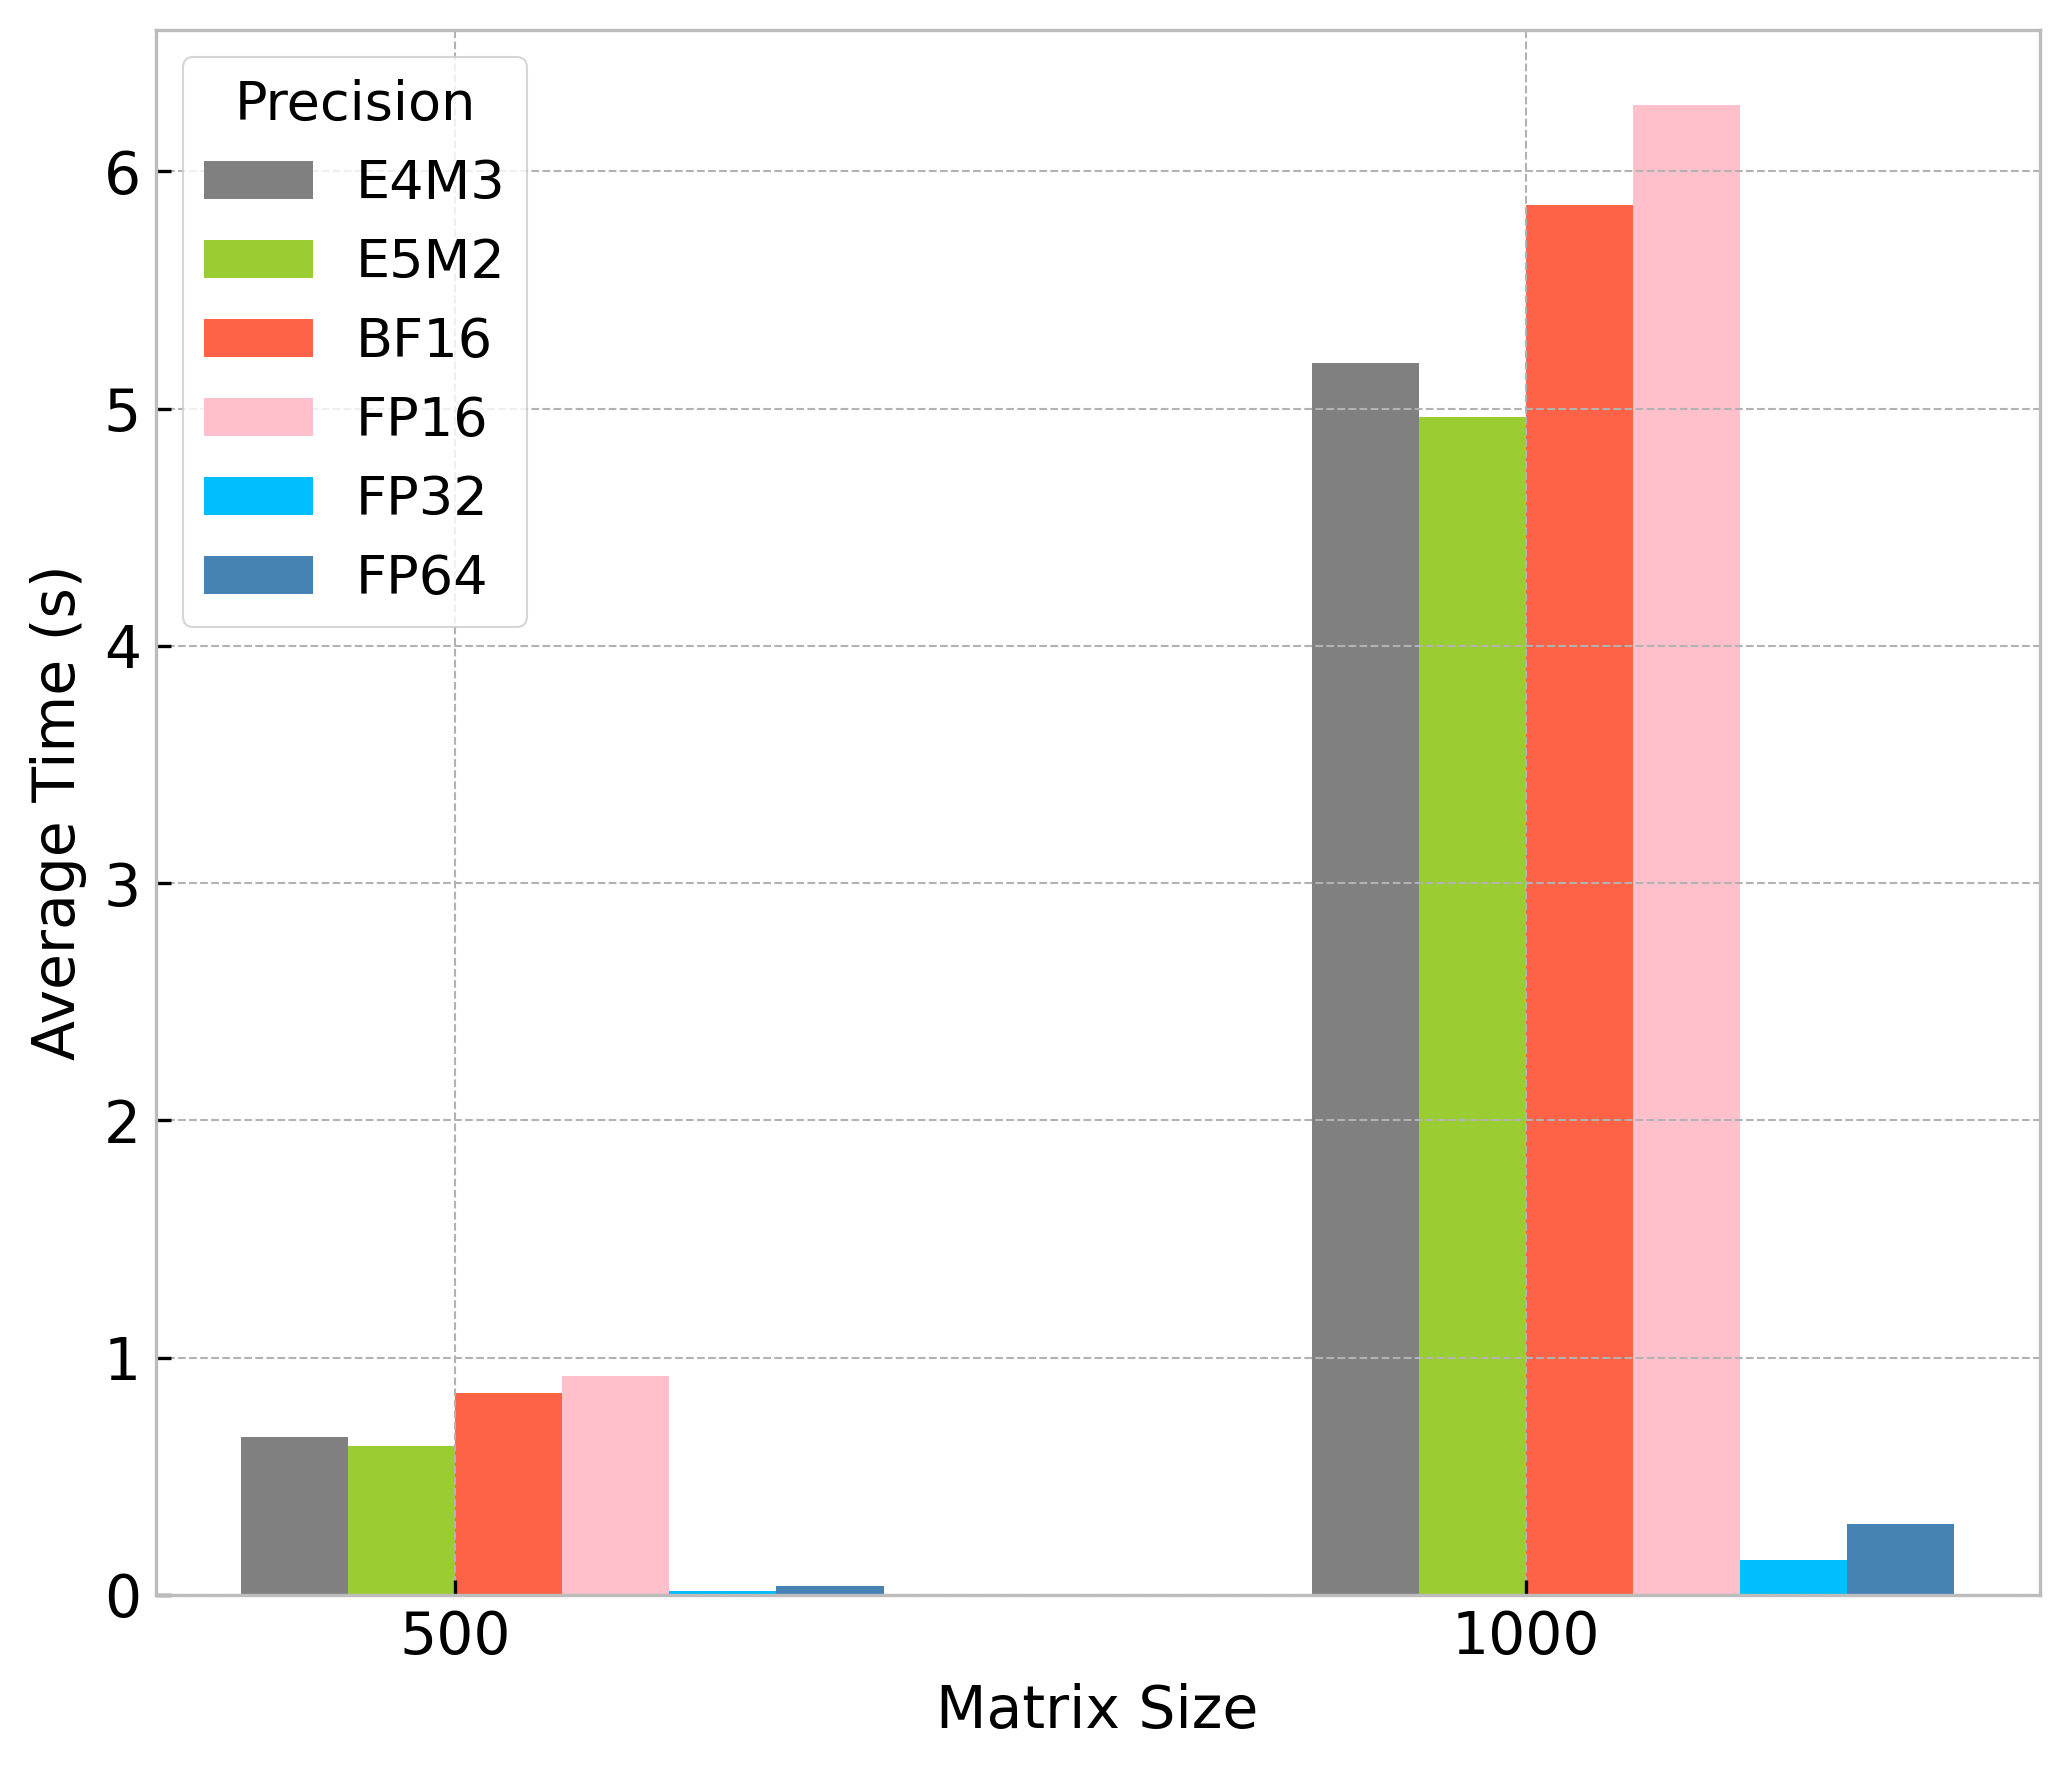
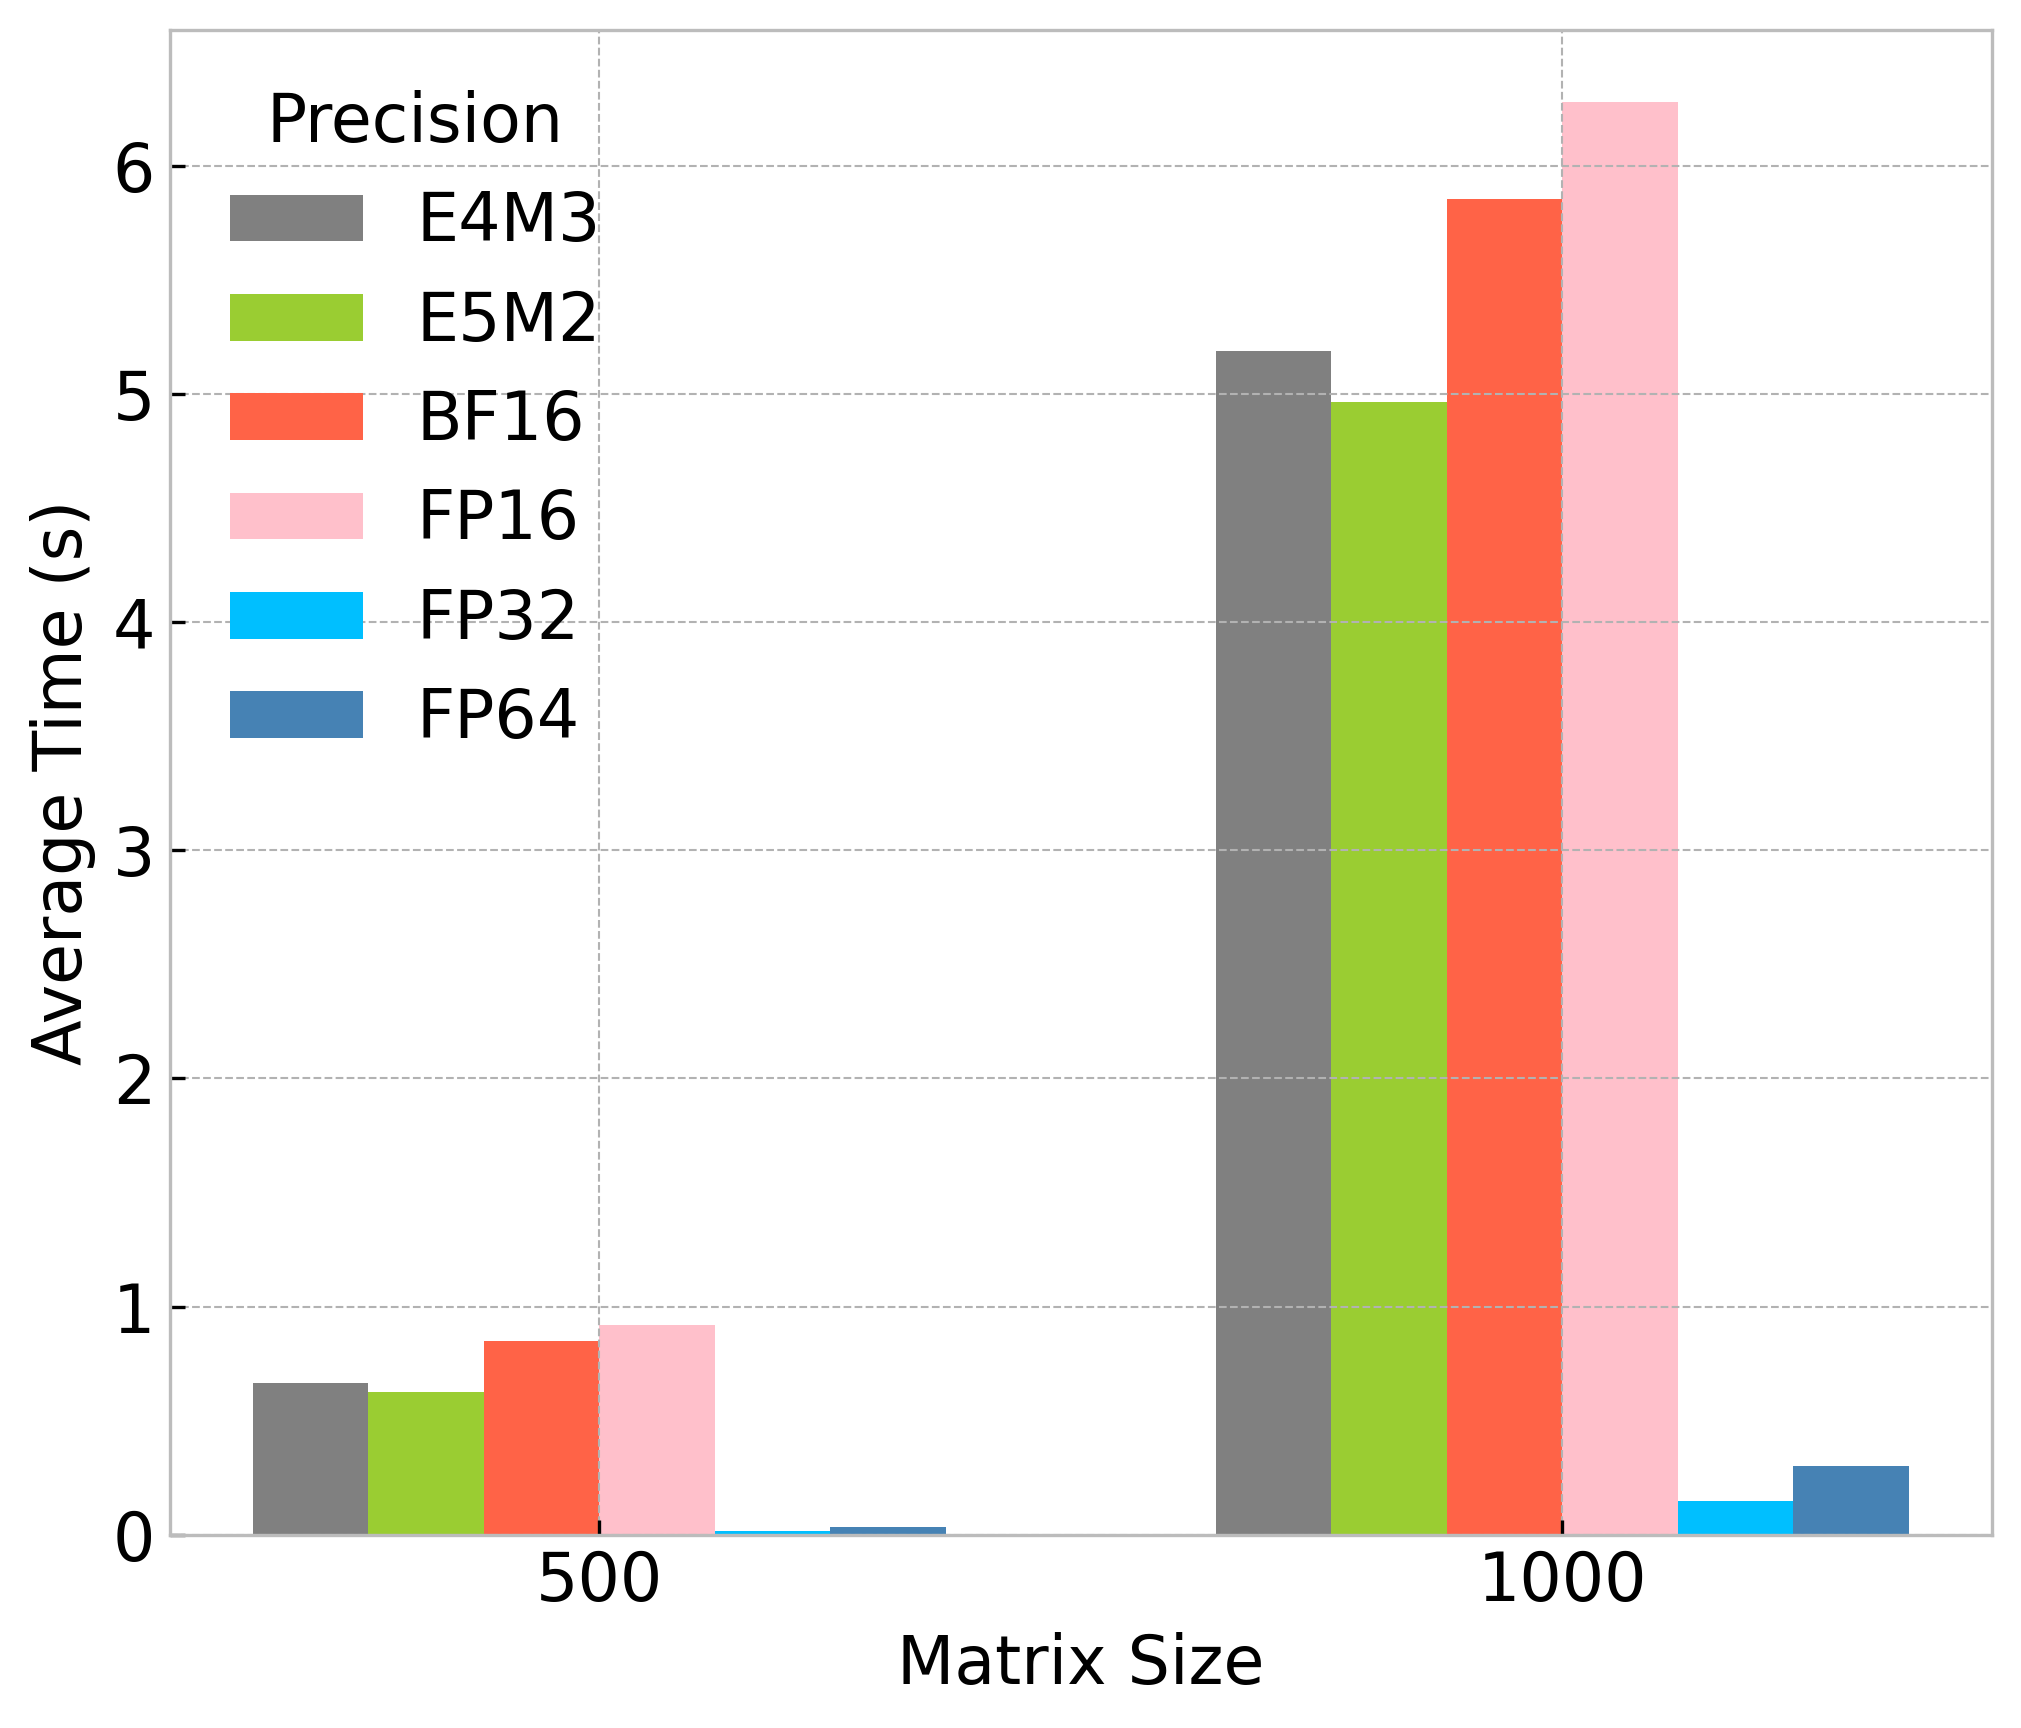
update code

Changed region(s): [[0.0, 0.0312, 0.9975, 0.9375], [0.4364, 0.9375, 0.6235, 1.0]]

diff --git a/cadnaPromise/examples/test_floatx/plot.py b/cadnaPromise/examples/test_floatx/plot.py
@@ -2,50 +2,67 @@ import pandas as pd
 import matplotlib.pyplot as plt
 import numpy as np
 
+# ============================
+# Load data
+# ============================
 df = pd.read_csv("results.csv")
 
-# Font sizes
-label_size = 14
-tick_size = 14
+# ============================
+# Global plotting style（论文风格）
+# ============================
+font_size = 16
 
-# Plot style
 plt.style.use('bmh')
-plt.rcParams['lines.linewidth'] = 2
-plt.rcParams['axes.facecolor'] = 'white'
-plt.rcParams['figure.facecolor'] = 'white'
+
+plt.rcParams.update({
+    'font.size': font_size,
+    'axes.titlesize': font_size,
+    'axes.labelsize': font_size,
+    'xtick.labelsize': font_size,
+    'ytick.labelsize': font_size,
+    'legend.fontsize': font_size,
+
+    'lines.linewidth': 2,
+    'lines.markersize': 6,
+
+    'axes.facecolor': 'white',
+    'figure.facecolor': 'white',
+
+    'legend.frameon': False,
+    'axes.grid': True
+})
 
 # ============================
 # Plot 1: Varying exponent bits
 # ============================
-plt.figure(figsize=(8, 6))
+fig, ax = plt.subplots(figsize=(8, 6))
 
 exp_df = df[(df['Type'] == 'exp') & (df['MatrixSize'] == 500)]
 
 fixed_sig_bits = sorted(exp_df['SigBits'].unique())
-markers = ['o', 's']
-colors = ['black', 'purple']
+markers = ['o', 's', '^', 'D']
+colors = ['black', 'purple', 'teal', 'darkorange']
 
 for i, sig in enumerate(fixed_sig_bits):
     subset = exp_df[exp_df['SigBits'] == sig].sort_values('ExpBits')
 
-    plt.plot(
+    ax.plot(
         subset['ExpBits'],
         subset['AvgTime'],
-        marker=markers[i],
-        color=colors[i],
-        markersize=8,
-        label=f'Fixed Significand = {sig}'
+        marker=markers[i % len(markers)],
+        color=colors[i % len(colors)],
+        label=f'Significand = {sig}'
     )
 
-plt.xlabel('Exponent Bits', fontsize=label_size)
-plt.ylabel('Average Time (s)', fontsize=label_size)
-plt.xticks(
-    np.arange(exp_df['ExpBits'].min(), exp_df['ExpBits'].max() + 1, 2),
-    fontsize=tick_size
+ax.set_xlabel('Exponent Bits')
+ax.set_ylabel('Average Time (s)')
+
+ax.set_xticks(
+    np.arange(exp_df['ExpBits'].min(), exp_df['ExpBits'].max() + 1, 2)
 )
-plt.yticks(fontsize=tick_size)
-plt.legend(fontsize=label_size)
-plt.grid(True)
+
+ax.legend()
+
 plt.tight_layout()
 plt.savefig("exponent_vs_time.png", dpi=300, bbox_inches='tight')
 plt.show()
@@ -53,35 +70,32 @@ plt.show()
 # ============================
 # Plot 2: Varying significand bits
 # ============================
-plt.figure(figsize=(8, 6))
+fig, ax = plt.subplots(figsize=(8, 6))
 
 sig_df = df[(df['Type'] == 'sig') & (df['MatrixSize'] == 500)]
 
 fixed_exp_bits = sorted(sig_df['ExpBits'].unique())
-markers = ['o', 's']
-colors = ['black', 'purple']
 
 for i, exp in enumerate(fixed_exp_bits):
     subset = sig_df[sig_df['ExpBits'] == exp].sort_values('SigBits')
 
-    plt.plot(
+    ax.plot(
         subset['SigBits'],
         subset['AvgTime'],
-        marker=markers[i],
-        color=colors[i],
-        markersize=8,
-        label=f'Fixed Exponent = {exp}'
+        marker=markers[i % len(markers)],
+        color=colors[i % len(colors)],
+        label=f'Exponent = {exp}'
     )
 
-plt.xlabel('Significand Bits', fontsize=label_size)
-plt.ylabel('Average Time (s)', fontsize=label_size)
-plt.xticks(
-    np.arange(sig_df['SigBits'].min(), sig_df['SigBits'].max() + 1, 2),
-    fontsize=tick_size
+ax.set_xlabel('Significand Bits')
+ax.set_ylabel('Average Time (s)')
+
+ax.set_xticks(
+    np.arange(sig_df['SigBits'].min(), sig_df['SigBits'].max() + 1, 2)
 )
-plt.yticks(fontsize=tick_size)
-plt.legend(fontsize=label_size)
-plt.grid(True)
+
+ax.legend()
+
 plt.tight_layout()
 plt.savefig("significand_vs_time.png", dpi=300, bbox_inches='tight')
 plt.show()

diff --git a/cadnaPromise/examples/test_floatx/plot_bar.py b/cadnaPromise/examples/test_floatx/plot_bar.py
@@ -2,12 +2,14 @@ import pandas as pd
 import matplotlib.pyplot as plt
 import numpy as np
 
-# -----------------------------
-# Read raw data
-# -----------------------------
+# ============================
+# Load data
+# ============================
 df = pd.read_csv("results_bar.csv")
 
-# Precision mapping (for plotting only)
+# ============================
+# Precision mapping
+# ============================
 precision_map = {
     'c': 'E4M3',
     'w': 'E5M2',
@@ -18,57 +20,66 @@ precision_map = {
 }
 df['PrecisionLabel'] = df['Precision'].map(precision_map)
 
-# Orders
 matrix_sizes = sorted(df['MatrixSize'].unique())
 precisions = ['E4M3', 'E5M2', 'BF16', 'FP16', 'FP32', 'FP64']
 
-# -----------------------------
-# Pivot: rows = MatrixSize, cols = Precision
-# -----------------------------
+# ============================
+# Pivot table
+# ============================
 pivot = df.pivot(
     index='MatrixSize',
     columns='PrecisionLabel',
     values='AvgTime'
 )[precisions]
 
-# -----------------------------
-# Plot style (BMH + white background)
-# -----------------------------
+# ============================
+# Global plotting style
+# ============================
+font_size = 16
+
 plt.style.use('bmh')
-plt.rcParams['figure.figsize'] = (7, 6)
-plt.rcParams['axes.facecolor'] = 'white'
-plt.rcParams['figure.facecolor'] = 'white'
 
-plt.rcParams['axes.titlesize'] = 18
-plt.rcParams['axes.labelsize'] = 14
-plt.rcParams['xtick.labelsize'] = 14
-plt.rcParams['ytick.labelsize'] = 14
+plt.rcParams.update({
+    'font.size': font_size,
+    'axes.titlesize': font_size,
+    'axes.labelsize': font_size,
+    'xtick.labelsize': font_size,
+    'ytick.labelsize': font_size,
+    'legend.fontsize': font_size,
 
-# -----------------------------
+    'axes.facecolor': 'white',
+    'figure.facecolor': 'white',
+
+    'legend.frameon': False,
+    'axes.grid': True
+})
+
+# ============================
 # Grouped bar chart
-# -----------------------------
+# ============================
 x = np.arange(len(matrix_sizes))
-bar_width = 0.1
+bar_width = 0.12
 
-colors = ['gray', 'yellowgreen', 'tomato', 'pink', 'deepskyblue', 'steelblue']  # high-contrast colors
+colors = ['gray', 'yellowgreen', 'tomato', 'pink', 'deepskyblue', 'steelblue']
 
-plt.figure(figsize=(7, 6))
+fig, ax = plt.subplots(figsize=(7, 6))
 
 for i, prec in enumerate(precisions):
-    plt.bar(
+    ax.bar(
         x + i * bar_width,
-        # np.log(pivot[prec].values),
         pivot[prec].values,
         width=bar_width,
         label=prec,
         color=colors[i]
     )
 
-plt.xticks(x + bar_width * 1.5, matrix_sizes)
-plt.xlabel("Matrix Size")
-plt.ylabel("Average Time (s)")
-# plt.title("Performance Comparison of Different Precision Formats")
-plt.legend(title="Precision", fontsize=13, title_fontsize=13)
+ax.set_xticks(x + bar_width * (len(precisions) - 1) / 2)
+ax.set_xticklabels(matrix_sizes)
+
+ax.set_xlabel("Matrix Size")
+ax.set_ylabel("Average Time (s)")
+ax.legend(title="Precision", title_fontsize=font_size)
+
 plt.tight_layout()
 plt.savefig("precision_grouped_by_size.png", dpi=300, bbox_inches='tight')
 plt.show()
